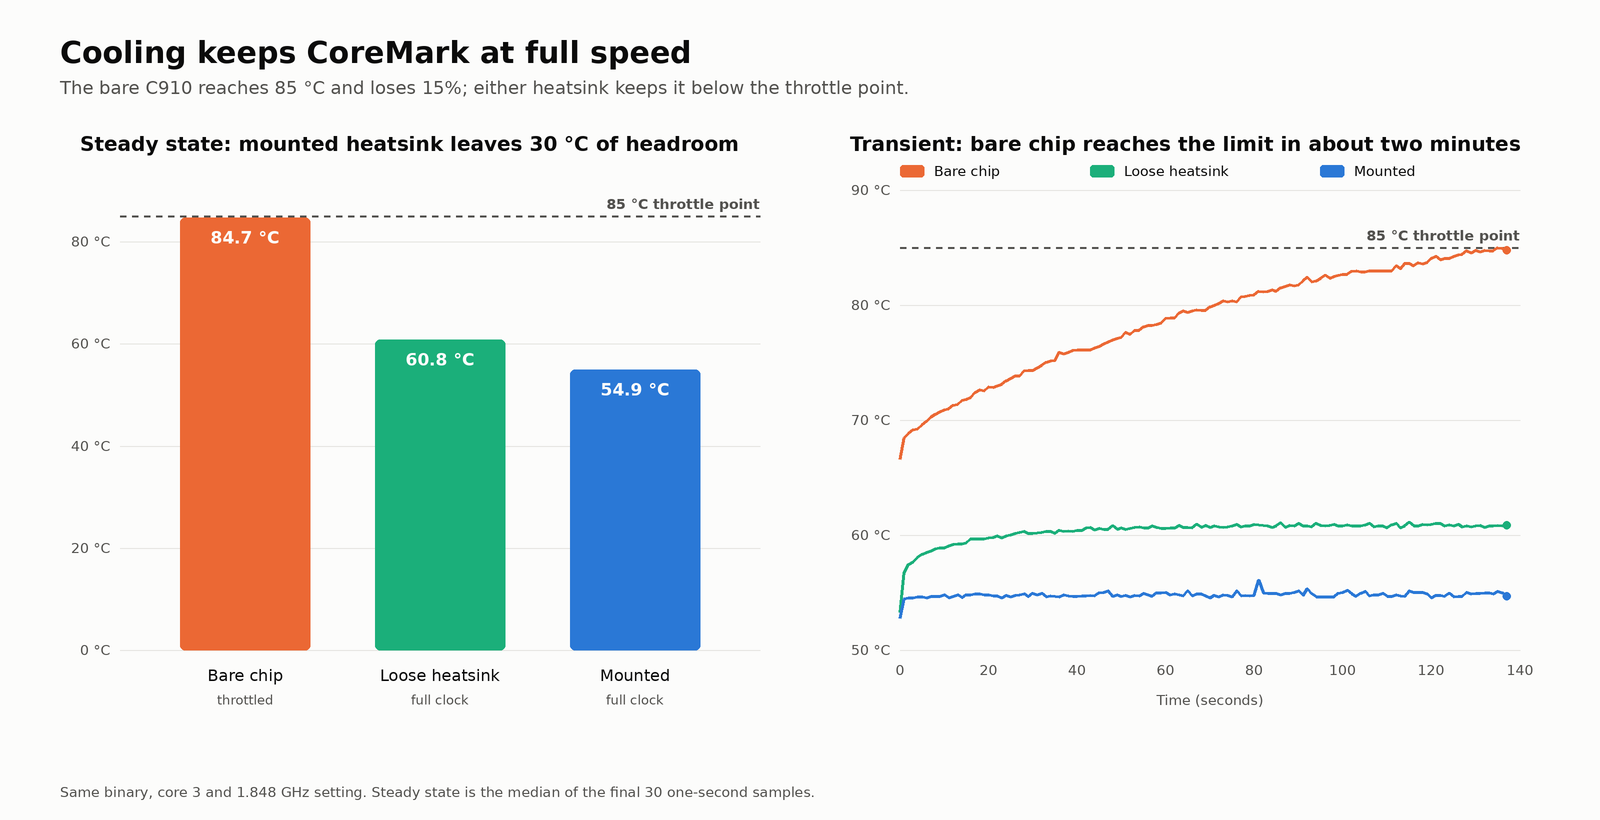
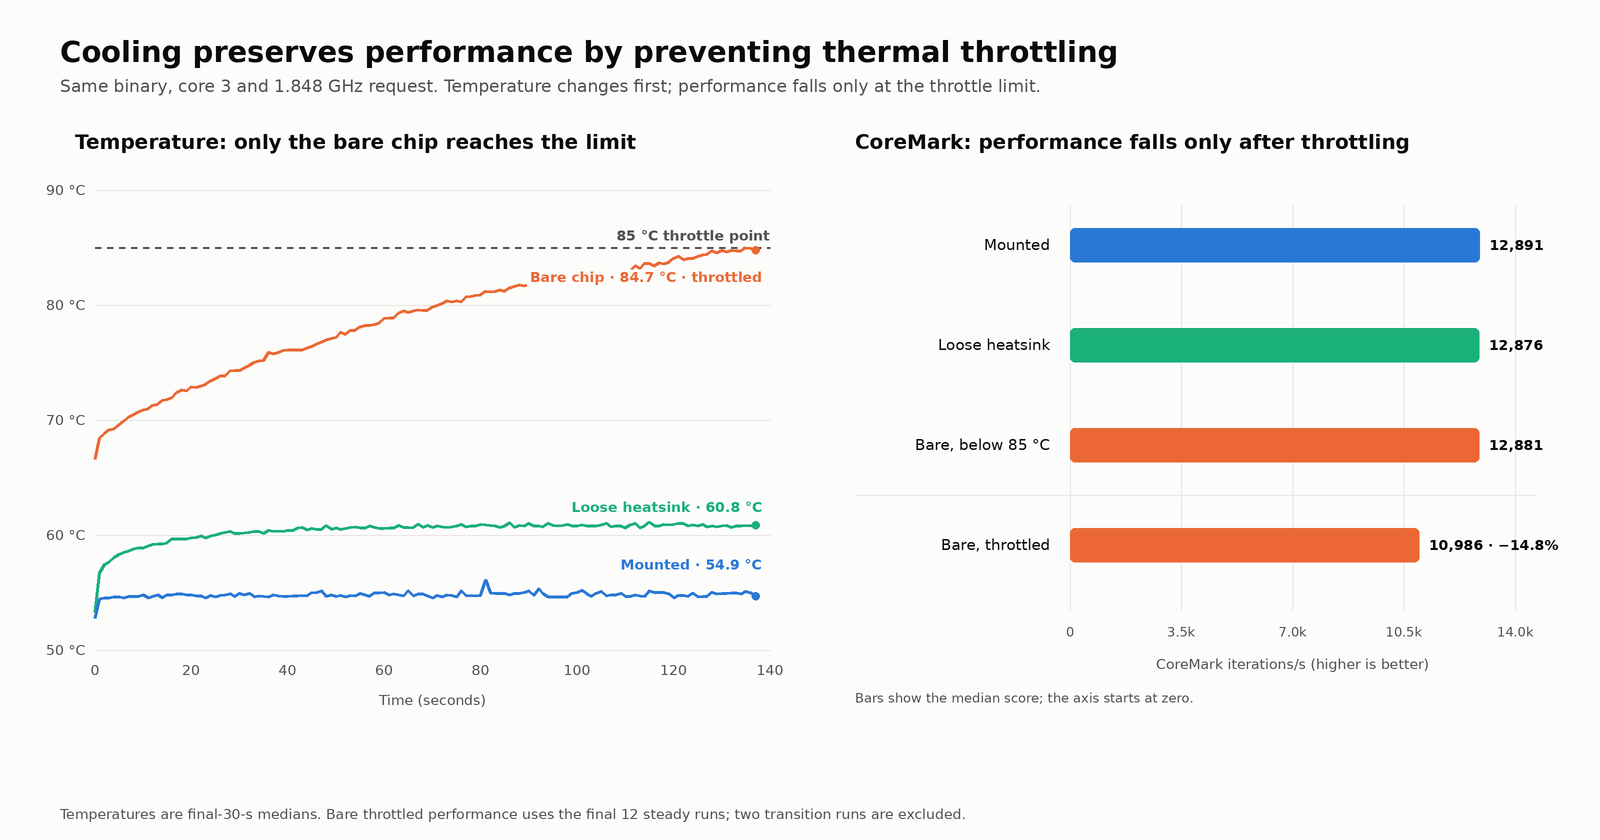
Update TH1520 CoreMark article and figures

diff --git a/_posts/2026-09-25-th1520-coremark.md b/_posts/2026-09-25-th1520-coremark.md
@@ -1,8 +1,8 @@
 ---
 layout: post
-title: "Reproducing the Lichee Pi 4A's official CoreMark score, one fix at a time"
+title: "Reproducing the Lichee Pi 4A's official CoreMark score, one variable at a time"
 date: 2026-09-25 18:00:00 +0100
-description: A controlled look at compiler flags, clock measurement, thermal throttling, and a platform-specific timing mistake on the T-Head TH1520.
+description: A controlled reproduction of the Lichee Pi 4A's CoreMark score, showing how compiler options, clock control, and thermal throttling shape the result.
 tags: risc-v benchmarking coremark
 categories: experiments
 featured: false
@@ -12,39 +12,49 @@ toc:
   beginning: true
 ---
 
-Sipeed advertises 13,220 CoreMark for the Lichee Pi 4A, or 7.15 CoreMark/MHz. I was able to reach **12,897—97.6% of Sipeed's figure—at 6.98 CoreMark/MHz**, using the documented compiler version and flags. The path to that result was more interesting than the final score: the compiler options were worth 1.77×, while the usual system-side controls were worth only 0.1%. Cooling did not matter until the chip reached 85 °C, at which point the OS started throttling the system and the score fell by 15%.
+## Introduction
 
-This article follows that path one step at a time. Reliable benchmarking is a system-level exercise: the application, operating system, compiler, and hardware configuration all matter simultaneously.
+Benchmark scores are often presented as headline numbers that look more self-contained than they really are. A single number is easy to communicate, but it does not necessarily convey the factors that produced it: the compiler version, target options, measurement method, clock policy, and thermal state. To examine this, I set out to reproduce Sipeed’s published CoreMark result for the Lichee Pi 4A, a RISC-V single-board computer based on T-Head’s TH1520.
+
+Reproducing a published benchmark is a useful diagnostic step. Whether you are evaluating a board as a hobbyist or integrating a processor into a product, matching a known result helps establish that the hardware, software, toolchain, and measurement setup are working as expected before moving to more complex workloads. However, matching the number is not enough on its own: the conditions that produced it also need to be understood.
+
+I treated the reproduction as a controlled system experiment: I started with the official source code, matched the vendor toolchain, verified the delivered clock, changed one factor at a time, and recorded the frequency and thermal state alongside the results. My best result reached 12,897 iterations per second—**97.6% of Sipeed’s figure**.
+
+The results showed that:
+
+- Compiler and target options improved performance by 1.77×.
+- Operating-system controls such as CPU governor selection, core pinning, and clock pinning improved performance by only 0.1% on an idle board. They made the operating conditions explicit and repeatable, rather than making the benchmark faster.
+- Cooling had no effect below the thermal limit of 85 °C. Once the uncooled CPU reached that limit and started throttling, performance fell by 15%.
+
+The broader lesson is simple: **a benchmark score is a property of the system, not of the processor in isolation.**
+
+## The board and benchmark
+
+### Lichee Pi 4A: a RISC-V SBC built around T-Head's TH1520
+
+The Lichee Pi 4A is a single-board computer from Sipeed built around the TH1520 system-on-chip (SoC). It has four RISC-V C910 cores running at up to 1.85 GHz. Each core has a 64 KB instruction cache and a 64 KB data cache, backed by 1 MB of shared L2 cache. My board has 8 GB of LPDDR4X memory and 32 GB of eMMC storage. These specifications come from [Sipeed’s board documentation](https://wiki.sipeed.com/hardware/en/lichee/th1520/lpi4a/1_intro.html).
+
+T-Head, Alibaba’s semiconductor business, positions the C910 as a high-performance, out-of-order application processor for consumer and edge-computing systems.
+
+<figure>
+  <div style="display: grid; grid-template-columns: 1fr 2.2fr; gap: 0.75rem; align-items: center;">
+    <img src="/assets/img/th1520/lichee-pi-4a-official.png" alt="Sipeed Lichee Pi 4A board" style="display: block; width: 100%; height: auto;">
+    <img src="/assets/img/th1520/th1520-block-diagram-riscv.jpg" alt="Simplified TH1520 block diagram showing the quad-core C910 CPU, LPDDR4X memory, NPU, GPU, DSP, multimedia blocks, and peripherals" style="display: block; width: 100%; height: auto;">
+  </div>
+  <figcaption style="text-align: center; font-size: 0.9em; margin-top: 0.5rem;">Lichee Pi 4A and a simplified TH1520 block diagram. Sources: <a href="https://wiki.sipeed.com/hardware/en/lichee/th1520/lpi4a/1_intro.html">Sipeed, <em>Lichee Pi 4A board documentation</em></a>; <a href="https://riscv.org/blog/the-release-of-the-first-two-mass-produced-development-boards-aosp-powered-by-th1520-soc/">RISC-V International, <em>AOSP powered by TH1520 SoC</em></a>.</figcaption>
+</figure>
+
+### What CoreMark measures
+
+[CoreMark](https://www.eembc.org/coremark/) is a small, portable CPU benchmark used to evaluate embedded processors. It repeatedly runs several integer workloads—including linked-list processing, matrix operations, a state machine, and a cyclic redundancy check—and reports the number of iterations completed per second. A higher score means that this particular workload completed faster. CoreMark is used on targets ranging from small microcontrollers to high-end 64-bit processors.
+
+CoreMark is useful for quick comparisons and for studying the interaction between a CPU and its compiler. Its narrow scope is also its limitation: the workload is CPU-centric, with limited activity outside the CPU and its caches. It is therefore not a reliable proxy for memory bandwidth, I/O, floating-point, vector performance, or complete application behaviour.
+
+Despite these limitations, CoreMark is widely reported by processor and board vendors. Sipeed publishes it for the C910, giving me a concrete result to reproduce.
 
 ## The target and method
 
-Sipeed's [benchmark page](https://wiki.sipeed.com/hardware/en/lichee/th1520/lpi4a/9_benchmark.html) provides two single-core runs at 1.85 GHz:
-
-| Build | Compiler | Iterations/s | CoreMark/MHz |
-|---|---|---|---|
-| Public toolchain | GCC 13.1.0 | 9,175 | 4.96 |
-| T-Head toolchain | GCC 10.4.0 (T-Head patched) | **13,220** | **7.15** |
-
-The recipe is the official [EEMBC CoreMark](https://github.com/eembc/coremark) and one `make` line:
-
-```bash
-make XCFLAGS="-march=rv64gv0p7_zfh_xtheadc -O3 -funroll-all-loops -finline-limit=500 \
-  -fgcse-sm -fno-schedule-insns -msignedness-cmpiv -fno-code-hoisting \
-  -mno-thread-jumps1 -mno-iv-adjust-addr-cost -mno-expand-split-imm"
-```
-
-CoreMark/second is the standard reportable metric, but I also use **CoreMark/MHz** to compare CPU performance independently of operating frequency. That normalization is useful here because CoreMark is compute-bound. But this should not be generalized to I/O or memory-bound benchmarks.
-
-### Test setup
-
-- **System:** Lichee Pi 4A with 8 GB RAM, running RevyOS 2026-05 (Linux 6.6.137, Debian 13).
-- **Compiler:** XuanTie GCC V2.8.0, which is GCC 10.4.0 with T-Head's patches, used to cross-compile from x86-64. Sipeed used this version for their public-facing data, and I have used the same for consistency.
-- **Clock control:** Frequency pinned at 1.848 GHz with the `performance` governor.
-- **Affinity control:** I kept the default Linux scheduler policy, but pinned every CoreMark run to core 3 with `taskset -c 3`.
-- **Cooling:** A heatsink, a thermal pad, and an OS-controlled fan were fitted on the board for most experiments, unless stated otherwise. The impact of these choices on temperature, CPU frequency, and benchmark performance is discussed later.
-- **Runs:** Three per build, using CoreMark's automatic iteration count so that each ran for at least 10 seconds. Variability was 0.1% to 1%, and I reported the median.
-
-### Verifying the clock
+The standard CoreMark result is reported in iterations per second. Since that score also depends on operating frequency, I use **CoreMark/MHz** alongside it to make results at different clock speeds easier to compare. This normalization is useful for this compute-bound workload, but should not be generalized to I/O- or memory-bound benchmarks.
 
 The per-MHz score is derived as follows:
 
@@ -54,11 +64,45 @@ $$
      {t_{\text{seconds}} \times f_{\text{MHz}}}
 $$
 
-Because frequency appears directly in the score and can vary for several reasons, I checked the delivered clock against the requested clock. For this purpose, I wrote a small `perf_event_open` microbenchmark that estimated frequency using the clock cycle counter and elapsed wall-clock time. Requested frequencies of 1,500 MHz and 1,848 MHz measured **1,499.4 MHz** and **1,847.2 MHz** across repeated runs (about **0.04%** below nominal). Satisfied with the stability, I used the nominal 1,848 MHz for the experiments below.
+Here, $N_{\text{iterations}}$ is the number of iterations completed, $t_{\text{seconds}}$ is the elapsed wall-clock time, and $f_{\text{MHz}}$ is the operating frequency in MHz. Numerically, the result expresses the number of benchmark iterations completed per million clock cycles.
+
+Using these two metrics, Sipeed's [benchmark page](https://wiki.sipeed.com/hardware/en/lichee/th1520/lpi4a/9_benchmark.html) provides two single-core runs at 1.85 GHz:
+
+| Build | Compiler | Iterations/s | CoreMark/MHz |
+|---|---|---|---|
+| Public toolchain | GCC 13.1.0 | 9,175 | 4.96 |
+| T-Head toolchain | GCC 10.4.0 (T-Head patched) | **13,220** | **7.15** |
+
+For reproducibility, Sipeed's recipe uses the official [EEMBC CoreMark](https://github.com/eembc/coremark) source and the following compiler options:
+
+```bash
+make XCFLAGS="-march=rv64gv0p7_zfh_xtheadc -O3 -funroll-all-loops -finline-limit=500 \
+  -fgcse-sm -fno-schedule-insns -msignedness-cmpiv -fno-code-hoisting \
+  -mno-thread-jumps1 -mno-iv-adjust-addr-cost -mno-expand-split-imm"
+```
+
+### Test setup
+
+Some conditions were held constant throughout the optimization ladder, while the governor, core affinity, and clock limits were deliberately introduced during its first three steps. The common setup was:
+
+- **System:** Lichee Pi 4A with 8 GB RAM, running RevyOS 2026-05 (Linux 6.6.137, Debian 13).
+- **Compiler:** XuanTie GCC V2.8.0, which is GCC 10.4.0 with T-Head's patches, used to cross-compile from x86-64. Sipeed used this version for their public-facing data, and I have used the same for consistency.
+- **Cooling:** A heatsink, a thermal pad, and an OS-controlled fan were fitted on the board for most experiments, unless stated otherwise. The impact of these choices on temperature, CPU frequency, and benchmark performance is discussed later.
+- **Optimization runs:** Three per build, using CoreMark's automatic iteration count so that each ran for at least 10 seconds. Variability was 0.1% to 1%, and I reported the median.
+
+### Controlling the governor, core, and clock
+
+A CPU-frequency governor determines how Linux selects an operating frequency in response to load. RevyOS uses the `performance` governor by default, which requests the highest permitted frequency. For the baseline run, I deliberately selected `schedutil`, which adjusts the requested frequency using the scheduler's estimate of CPU demand. Linux exposes these controls through tools such as `cpupower` and through its `cpufreq` interface in `sysfs`.
+
+Linux may also move a process between cores or change its frequency while it is running. I did not apply the final controls at the outset because I wanted to measure their effects rather than assume that they mattered. Starting from the `schedutil` baseline with no core or clock pinning, I first restored the default `performance` governor, then bound CoreMark to core 3 using `taskset`, and finally set both the minimum and maximum CPU frequency to 1.848 GHz. Each control remained in place for the subsequent rows of the optimization ladder.
+
+### Verifying the clock
+
+After setting the requested clock, I checked the frequency that the CPU actually delivered. I wrote a small `perf_event_open` microbenchmark that estimated frequency using the clock cycle counter and elapsed wall-clock time. Requested frequencies of 1,500 MHz and 1,848 MHz measured **1,499.4 MHz** and **1,847.2 MHz** across repeated runs (about **0.04%** below nominal). Satisfied with the stability, I used the nominal 1,848 MHz for the experiments below.
 
 ## The optimization ladder
 
-I started with a plain `-O2` build under the `schedutil` governor, then changed one thing at a time: system controls first, compiler options next. All runs used the same board on the same day with the heatsink fitted, and each row includes every change above it.
+I started by compiling the benchmark with plain `-O2` and using the `schedutil` governor for frequency selection. I then changed one factor at a time: system controls first, compiler options next. All runs used the same board on the same day, with the heatsink properly mounted. Each row shows the cumulative configuration and reports both the raw and frequency-normalized CoreMark scores.
 
 | # | Cumulative change | Iterations/s | CoreMark/MHz | Step | What it showed |
 |---:|---|---:|---:|---:|---|
@@ -73,70 +117,52 @@ I started with a plain `-O2` build under the `schedutil` governor, then changed 
 | 8 | T-Head-only options (`-msignedness-cmpiv` …) | 12,859 | 6.96 | **+6.1%** | Vendor-specific tuning still mattered |
 | 9 | Sipeed's `-march=rv64gv0p7_zfh_xtheadc` | **12,897** | **6.98** | +0.3% | Final result: 97.6% of Sipeed's score |
 
-Run-to-run spread was tiny: within ±0.1% for every row except #5, which varied by about 1%. In a separate test, `-mtune=c910` also made no difference: 6.96 CoreMark/MHz either way. Perhaps `-fno-schedule-insns` disables the pass that would have benefited from it.
+The table separates into two clear groups. Rows 1–3 controlled how Linux scheduled and clocked the workload, but added almost no performance. Rows 4–9 changed the generated machine code and improved the score by 77%. For this benchmark, the compiler mattered much more than the operating-system controls.
 
-### What Sipeed's `-march` actually changed
+Run-to-run spread was tiny: within ±0.1% for every row except #5, which varied by about 1%. In a separate test, `-mtune=c910` also made no difference: 6.96 CoreMark/MHz either way.
+
+### A negative result: smaller instructions were not faster
 
 Sipeed's `rv64gv0p7` target includes version 0.7.1 of the RISC-V vector extension, but the compiler emitted no vector instructions for CoreMark. Vector support therefore did not produce the row 9 result.
 
-The other detail is what the target omits: `rv64g` has no **compressed instruction extension (`c`)**, so it cannot use the smaller 16-bit encodings. I expected that to hurt performance by way of extra instruction-fetch and cache pressure. However, results suggested otherwise. I ran an independent test with `rv64gc`, and the compressed and uncompressed builds differed by only 0.016%. **For CoreMark on this C910, the impact of compressed vs uncompressed instructions was negligible, suggesting that instruction fetch was not a bottleneck.**
+The other detail is what the target omits. RISC-V's compressed instruction extension (`c`) allows many common instructions to use smaller 16-bit encodings. The `rv64g` target does not include it, whereas `rv64gc` does. I expected the larger uncompressed build to lose performance through extra instruction-fetch and cache pressure. However, an independent test showed that the compressed and uncompressed builds differed by less than 0.1%. **For this CoreMark build on the C910, instruction fetch did not appear to be a bottleneck.**
 
 <img src="/assets/img/th1520/rvc-comparison-chart.png" alt="rv64gc reduces code size without changing CoreMark performance compared with rv64g" style="display: block; width: 100%; height: auto;">
 
 ## Thermal throttling and cooling
 
-With proper cooling, the system-side controls appeared to have no impact on the score. To test the sensitivity of the system performance to cooling apparatus, I kept row 9 unchanged—1.848 GHz, core 3, same binary—and varied only the cooling. Temperature, actual clock, and throttling state were logged every second across six back-to-back runs, extended by 14 runs once the bare chip began throttling.
+The optimization runs remained stable while the board was properly cooled. To isolate the effect of cooling, I kept the best configuration unchanged—same binary, core, and 1.848 GHz clock—and varied only the cooling arrangement.
 
 | Cooling | Chip temperature | Clock actually delivered | Iterations/s |
 |---|---|---|---|
 | Heatsink mounted with a thermal pad, fan on | 53 → 54 °C | 1,848 MHz, all the time | 12,871–12,914 |
 | Heatsink resting loosely on the chip, fan on | 53 → 61 °C | 1,848 MHz, all the time | 12,869–12,880 |
 | Bare chip, starting warm | 66 → 85 °C, still climbing | 1,848 MHz, all the time | 12,870–12,888 |
-| Bare chip, once it reached 85 °C (14 more runs) | held at 83–85 °C | 61% at 1,608 MHz, 29% at 1,500 MHz, 4% at 1,848 MHz | 10,900–11,050 (**−15%**) |
+| Bare chip, steady-state throttling (final 12 of 14 continuation runs) | held at 83–85 °C | 65% at 1,608 MHz, 34% at 1,500 MHz, 1% at 1,704 MHz | 10,906–11,054 (**−15%**) |
 | Heatsink put back, starting hot | 61 → 65 °C | 1,848 MHz, all the time | 12,871–12,889 |
 
-<img src="/assets/img/th1520/thermal-chart.png" alt="A bare C910 reaches the 85 °C throttle point while either heatsink keeps CoreMark at full speed" style="display: block; width: 100%; height: auto;">
+<img src="/assets/img/th1520/thermal-chart.png" alt="Temperature transients for three cooling arrangements and CoreMark performance before and after thermal throttling" style="display: block; width: 100%; height: auto;">
 
 ### Observations
 
 - **Below 85 °C, temperature did not affect performance.** A mounted heatsink, a loose heatsink, and no heatsink all produced the same score while the CPU delivered 1.848 GHz.
-- **At 85 °C, the kernel intervened.** Removing the heatsink led to a transient rise in temperature, reaching all the way to 85 °C. At this point, the system's `cpufreq` cooling policy started aggressive throttling of the CPU frequency. It held the frequency mostly at 1,608 MHz, holding the bare chip at 83–85 °C. As a result, the score fell by 15%. CoreMark still printed "Correct operation validated", but the temperature and frequency logs revealed the throttling. 
+- **At 85 °C, the kernel intervened.** Once the bare chip reached the thermal limit, the system's `cpufreq` cooling policy reduced the clock, mostly to 1,608 MHz, and maintained a temperature of 83–85 °C. As a result, the score fell by 15%. CoreMark still printed "Correct operation validated", but the temperature and frequency logs revealed the throttling.
 - **Recovery was immediate.** Replacing the heatsink restored the full clock and a score of 12,886 on the first run.
 
-Without the temperature and frequency logs, that 15% thermal loss would look exactly like a software regression. A software engineer would have wrongfully concluded that the loss was due to some other factors (such as the compiler).
+Without the temperature and frequency logs, this 15% thermal loss could easily be mistaken for a software regression.
 
-## How a timer oversight led to the wrong conclusion
+## What this result means
 
-This was actually my second attempt at this benchmark. About a year ago, I ran it on the same board, once with the T-Head GCC toolchain and once with a stock GCC. The two builds reported **5,134** and **5,145 iterations per second**, respectively. Practically identical. I concluded that the custom toolchain made no difference, and I moved on. That conclusion was wrong.
+The number 12,897 is meaningful only with the conditions that produced it. The benchmark source, compiler and flags, operating frequency, OS configuration, cooling, and measurement method are part of the result—not optional metadata.
 
-The mistake was in my measurement setup: I compared the final scores without checking how each platform port measured time. For the T-Head build, I used the public [riscv-boom/riscv-coremark wrapper](https://github.com/riscv-boom/riscv-coremark). Its [build script](https://github.com/riscv-boom/riscv-coremark/blob/master/build-coremark.sh) produces a `coremark.riscv` binary with the included `riscv64` port, so it looked like a reasonable starting point. What I missed was that this was a third-party port, not T-Head code or CoreMark's official Linux port.
-
-CoreMark delegates timing to the platform port, so my two binaries were using different rulers:
-
-- The stock build used CoreMark's [Linux/POSIX port](https://github.com/eembc/coremark/blob/main/posix/core_portme.c), which reads wall-clock time.
-- The T-Head-compiled build used the wrapper's [RISC-V port](https://github.com/riscv-boom/riscv-coremark/blob/master/riscv64/core_portme.c), which reads the **cycle counter** and divides by a **hard-coded 1,000,000,000**. It assumes a 1 GHz CPU; the source even says `// TODO: What freq are we assuming?`. My board ran at 1.848 GHz.
-
-<img src="/assets/img/th1520/timer-ports-comparison.png" alt="The Linux port reads wall-clock time; the RISC-V port reads the cycle counter and assumes 1 GHz" style="display: block; width: 100%; height: auto;">
-
-The reported 5,134 was therefore iterations per billion cycles, not per second. At 1.848 GHz, this is  **9,490 iterations per second**, or 5.13 CoreMark/MHz. The stock build's 5,145 was only 2.78 CoreMark/MHz. The T-Head-compiled build had been about 1.85× faster all along, but the (wrong) results looked equal only because their units differed.
-
-This low-level oversight propagated upward: wrong elapsed time --> wrong score --> wrong conclusions about compiler performance.
-
-## Significance
-
-**The CPU benchmark number on its own is not a result.** System-level paramters such as the timer, operating system settings, compiler versions and flags, thermal state, interference and noise levels, etc. all belong in a headline alongside the reported number. CONTEXT is important.
+In this experiment, the compiler determined most of the performance. System controls made the operating state explicit and repeatable, while cooling preserved the full clock once the processor approached its thermal limit. Reproducing the score required treating the compiler, operating system, clock delivery, and thermal management as parts of one measurement system.
 
 ## What next?
 
-The conclusion today is that this board can reach 12,897 iterations per second at 1.848 GHz with the documented compiler and flags: 6.98 CoreMark/MHz and 97.6% of Sipeed's figure. 
-
 Possible extensions of this work:
 
-- **Investigate the remaining 2.4%:** Sipeed's claimed score was generated from a dynamically linked build, versus my statically built cross-compiled build. That is one difference to investigate, apart from vendor kernel and firmware. Also, unlike in my report, Sipeed did not declare the operating frequency of their experiments. One can assume "peak frequency" but that declaration clarifies one important unknown.
-- **Try 2 GHz:** [Sipeed says](https://wiki.sipeed.com/hardware/en/lichee/th1520/lpi4a/2_unbox.html#overclocking) that some boards can reach it. Although risky for the device's health, this can be attempted after running some diagnostics on the stability of the clock, power supply and temperature.
-- **Measure power vs performance:** compare board-input power at idle and under load across the same frequency steps.
-- **Expand the workload set:** run four-thread CoreMark, then try OpenSSL, Dhrystone, Geekbench, and smaller tests that isolate parts of the C910. Sipeed has several benchmarks in the public domain.
-- **Testing other on-board IPs and peripherals:** Sipeed reports performance measurements for on-board eMMC, LPDDR4x and ethernet (GbE). The techniques for evaluating these modules is quite different from the CPU, although general concepts of system-level considerations of - correct measurement criteria, appropriate workloads, minimization of noise and interference - will still apply.
-- **Compare other boards:** repeat the method on Raspberry Pi and other RISC-V systems to separate the CPU, compiler, clock policy, cooling, and surrounding system.
+- **Investigate the remaining 2.4%:** Sipeed's claimed score came from a dynamically linked build, whereas mine was statically linked and cross-compiled. The vendor kernel and firmware are other differences to isolate.
+- **Extend the system characterization:** measure multicore scaling and power across the available frequency range, then apply workload-specific tests to memory, storage, and network performance.
+- **Test how general the method is:** use broader application workloads and repeat the controlled comparison on other Arm and RISC-V boards.
 
 If there is another benchmark or configuration that would make the comparison more useful, please suggest it. I will release the build and measurement scripts once the repository is tidied up.
